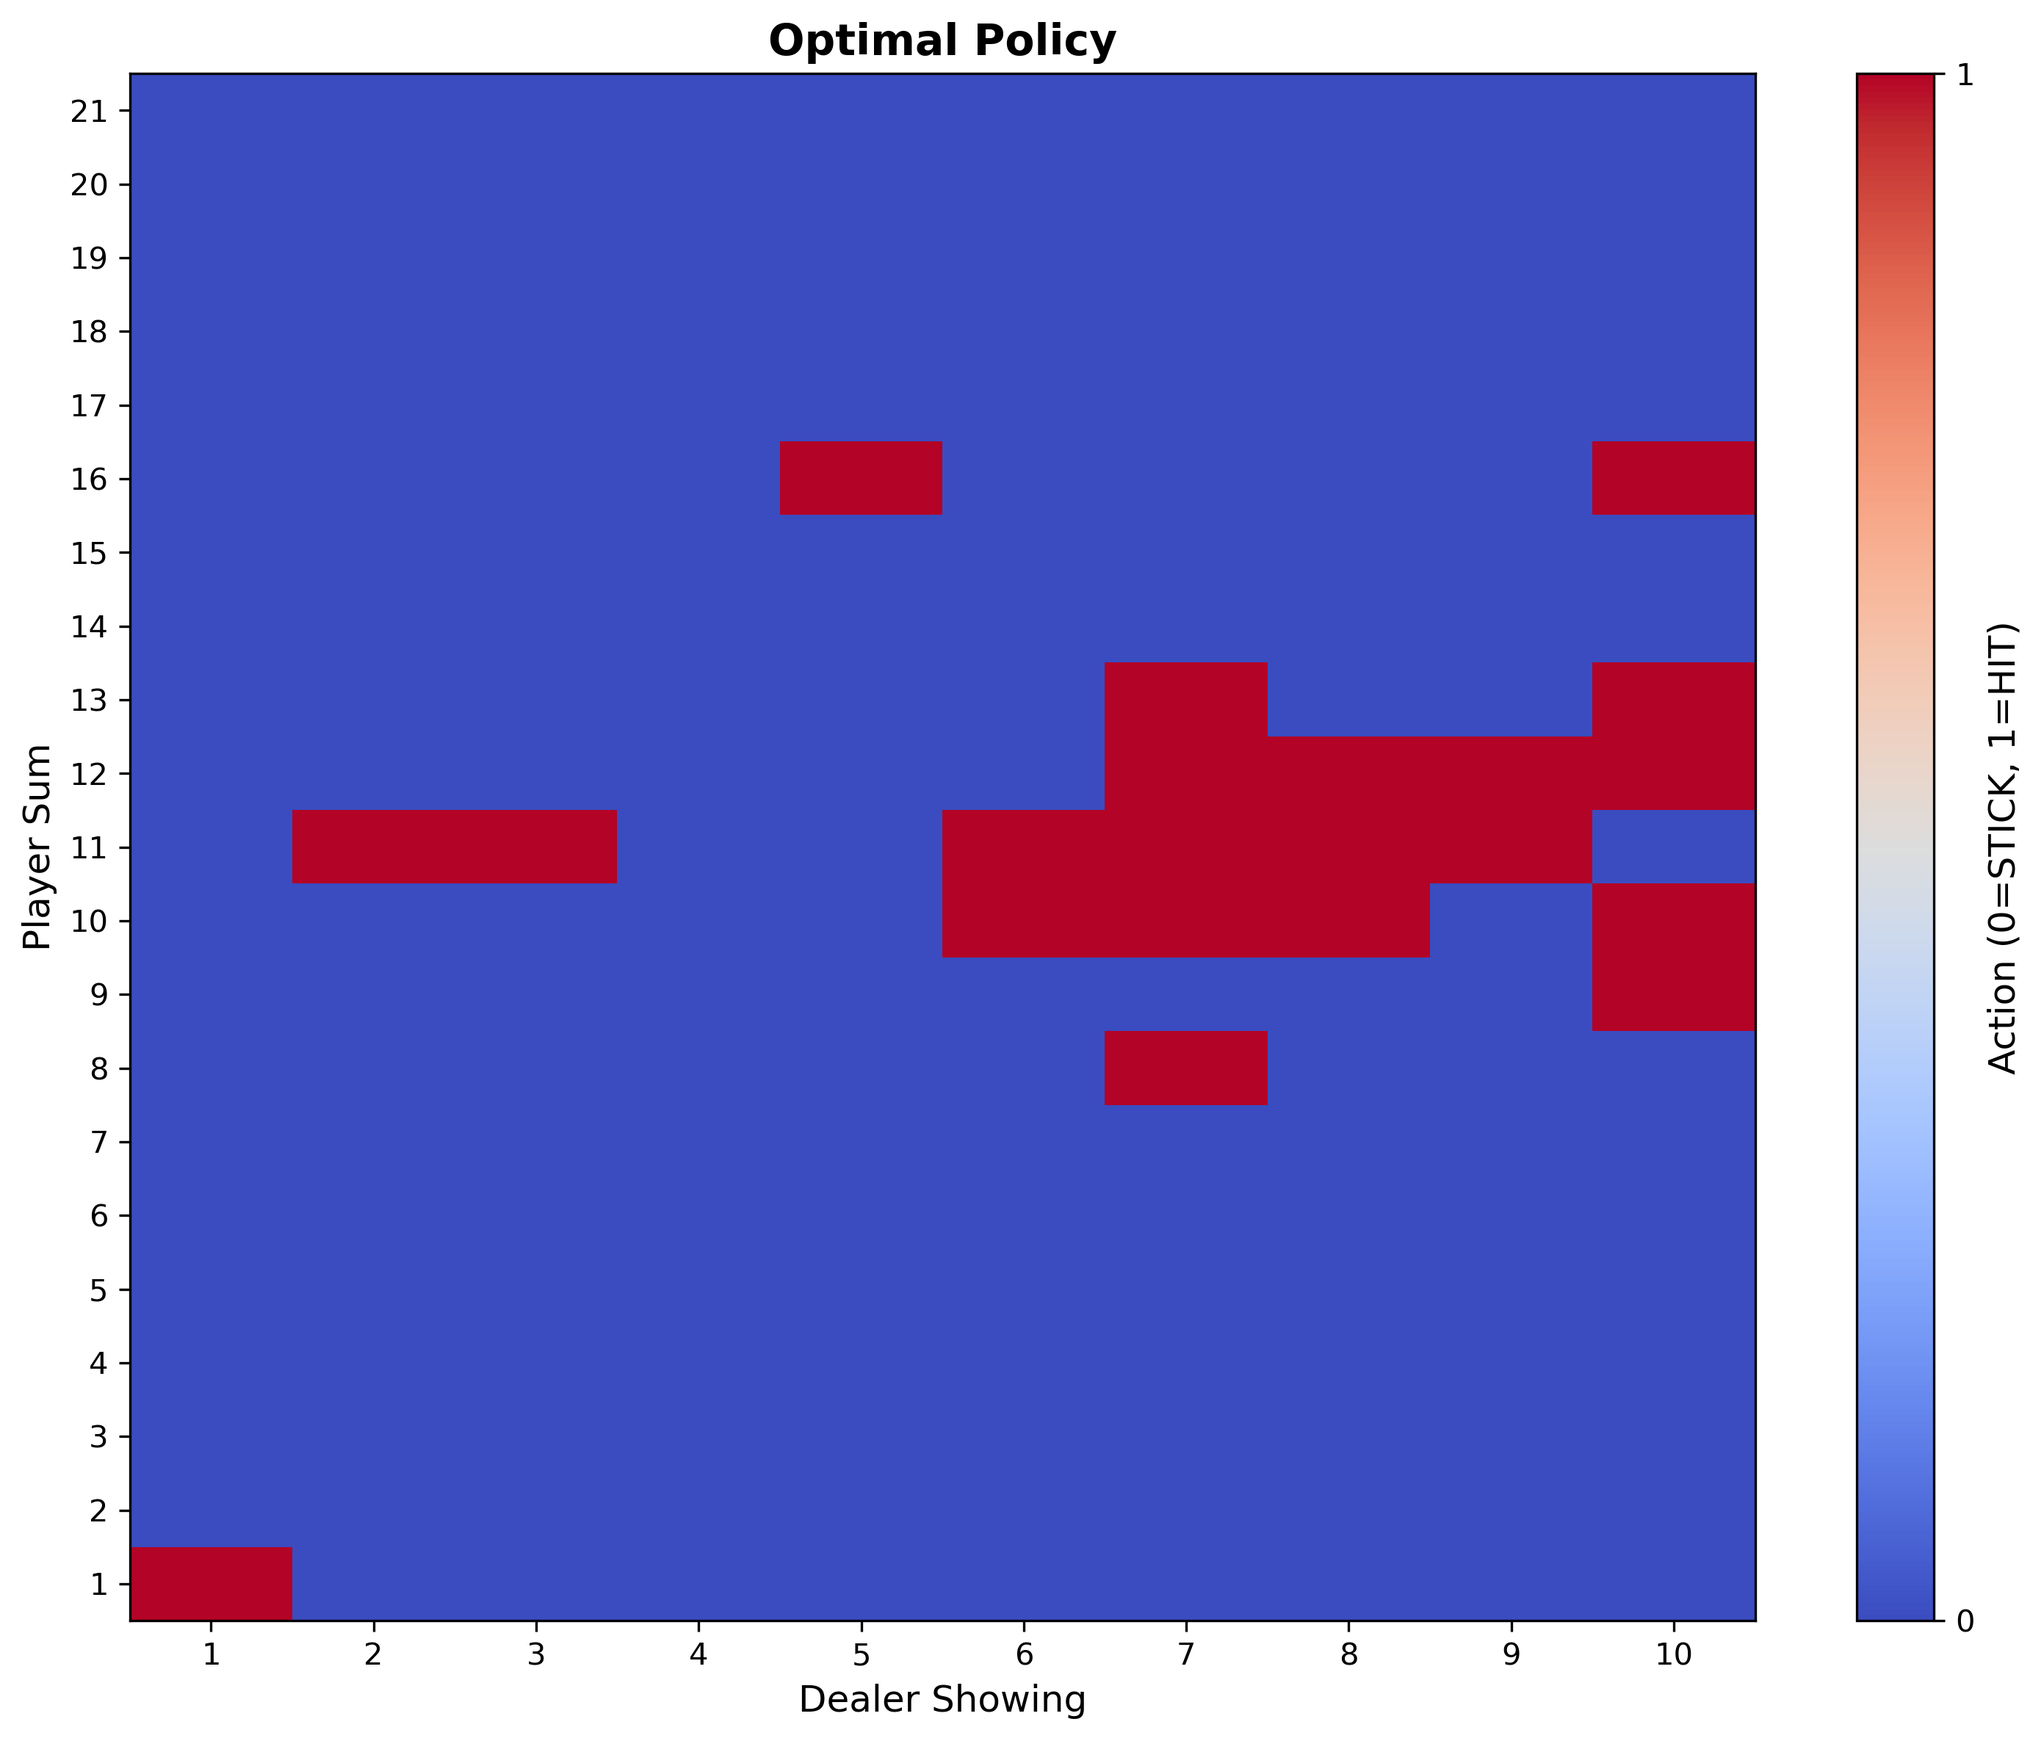
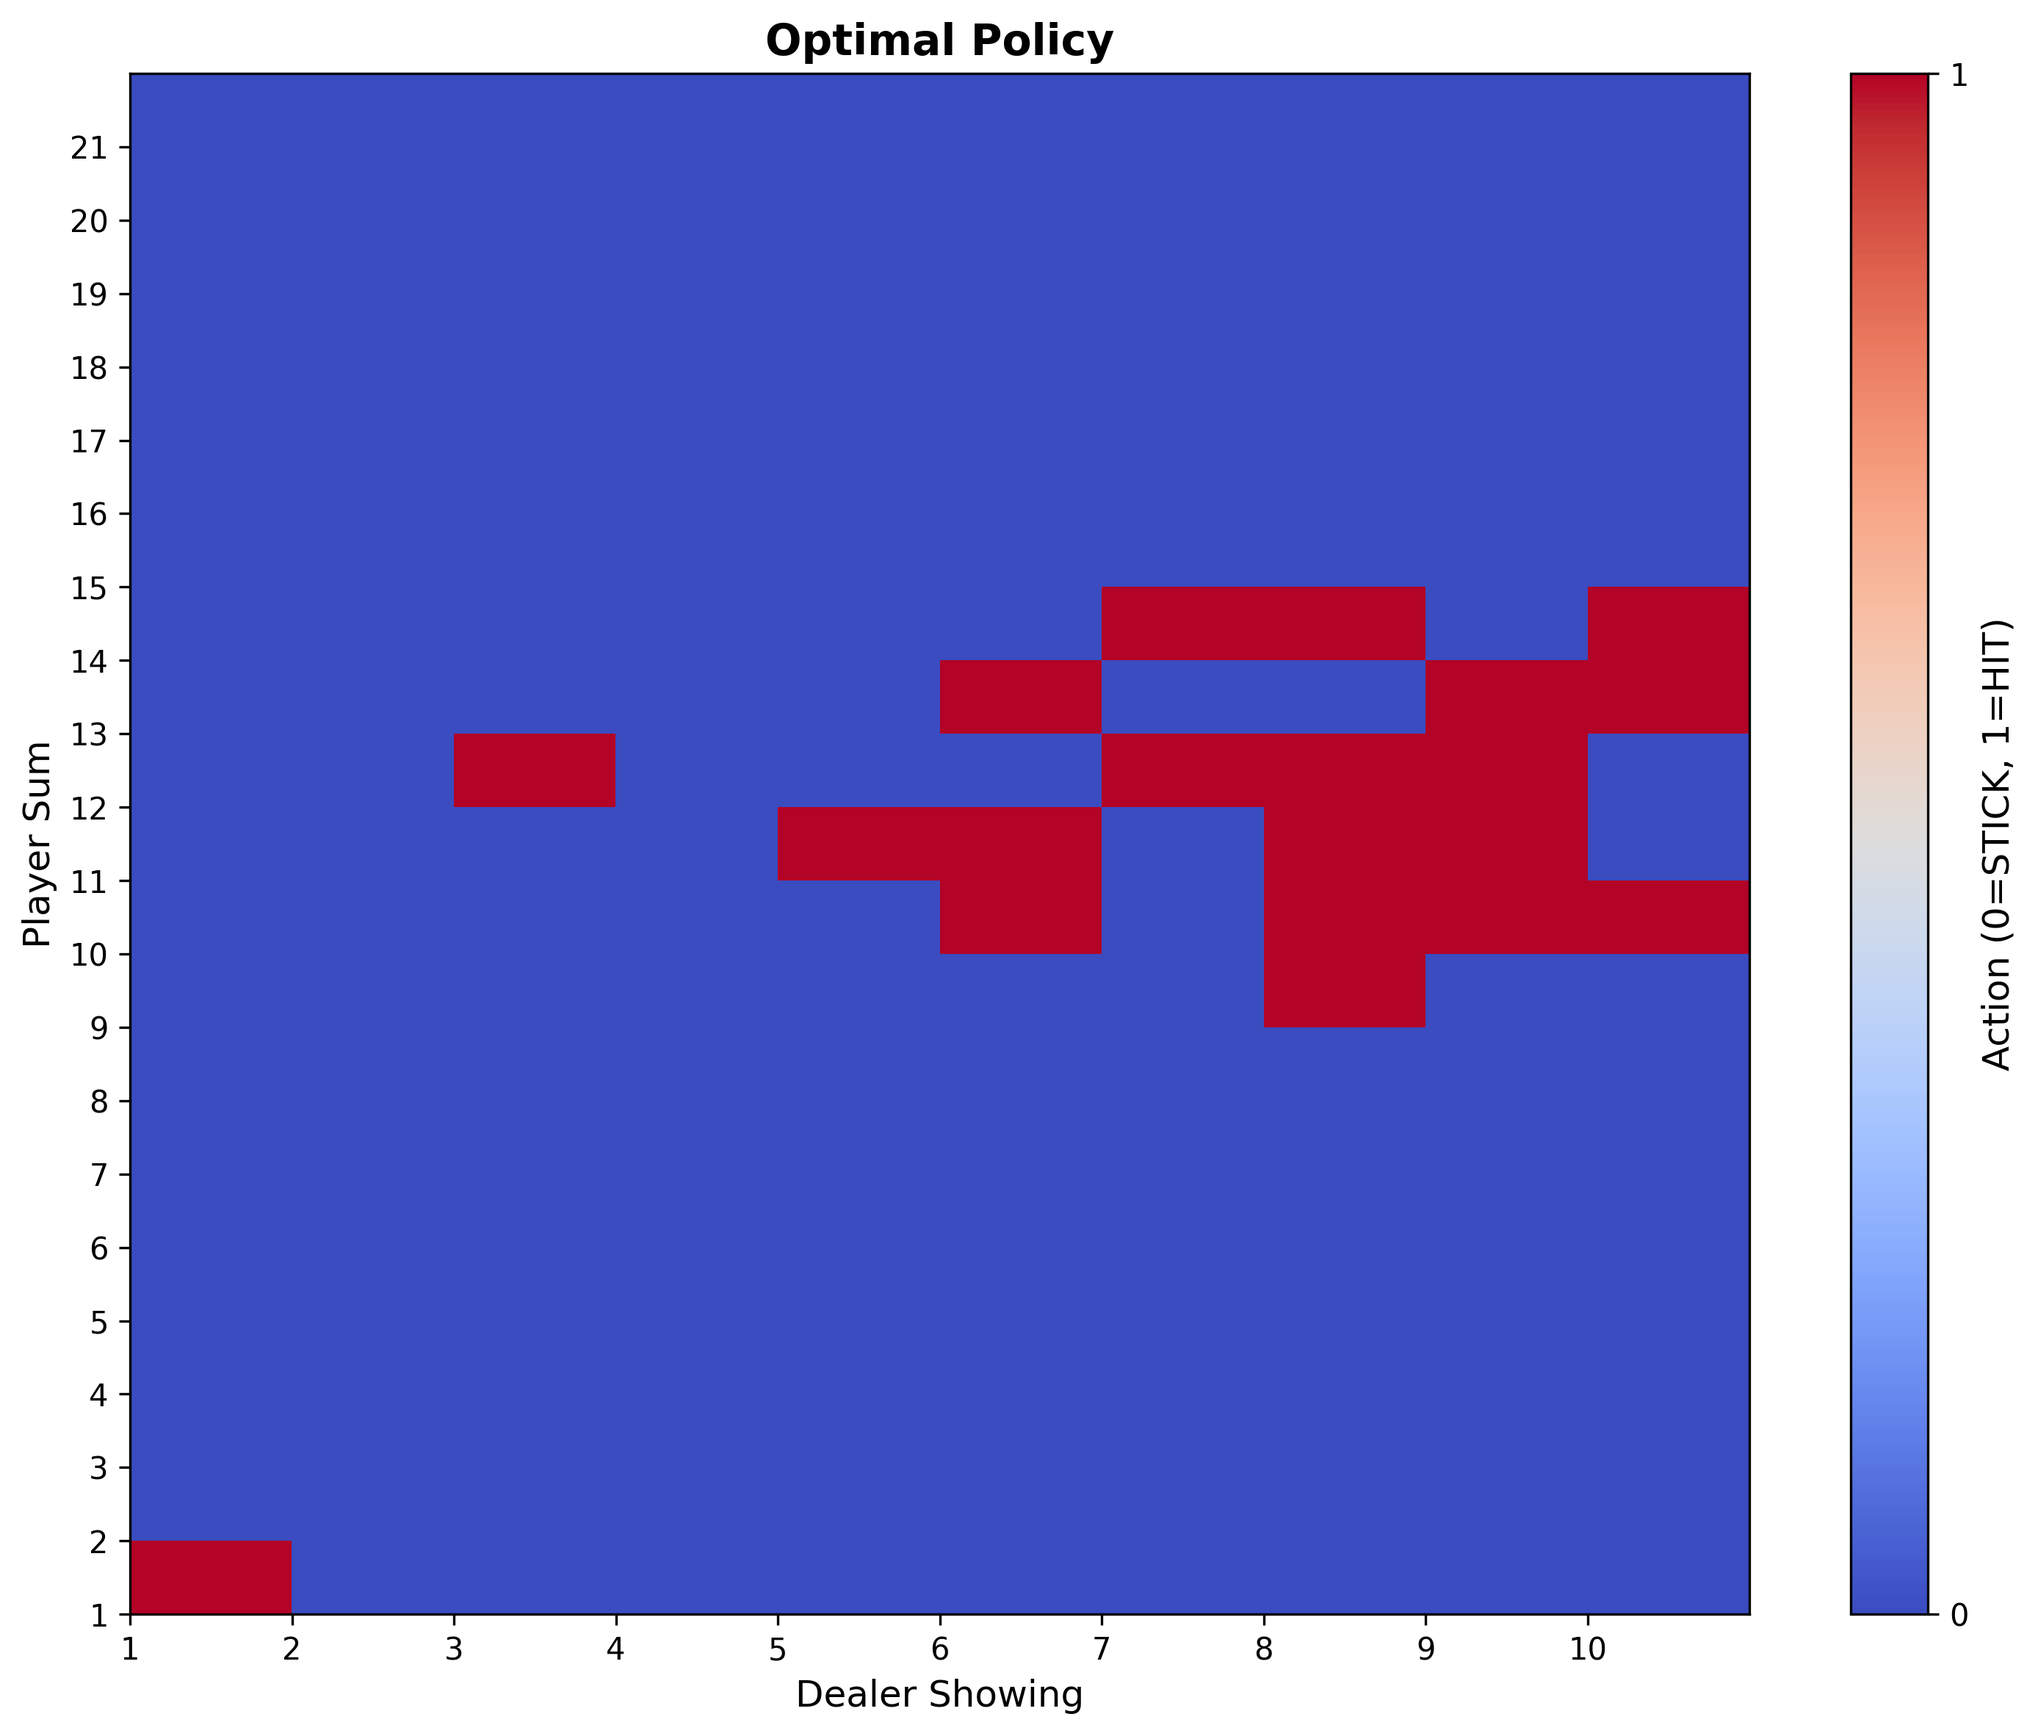
SARSA(lambda) implemented

diff --git a/model/question_3.py b/model/question_3.py
@@ -1,0 +1,190 @@
+"""
+Question 3: TD Learning in Easy21
+
+Implement Sarsa(λ) in Easy21. Run the algorithm with parameter values λ ∈ {0, 0.1, 0.2, ..., 1}.
+Stop each run after 1000 episodes and report the mean-squared error comparing with Q* from Monte Carlo.
+Plot the mean-squared error against λ.
+For λ = 0 and λ = 1 only, plot the learning curve of mean-squared error against episode number.
+"""
+
+import numpy as np
+import matplotlib.pyplot as plt
+import pickle
+
+from agent import Agent
+from easy21 import Easy21
+import _config
+
+
+def load_optimal_q_matrix(filepath: str = None):
+    """Load the optimal Q-matrix from Monte Carlo simulation."""
+    if filepath is None:
+        filepath = "q_matrix/monte_carlo_q_matrix.pkl"
+
+    try:
+        with open(filepath, 'rb') as f:
+            q_star = pickle.load(f)
+        print(f"Loaded optimal Q-matrix from {filepath}")
+        return q_star
+    except FileNotFoundError:
+        print(f"ERROR: Optimal Q-matrix not found at {filepath}")
+        print("Please run Monte Carlo simulation first to generate Q*.")
+        return None
+
+
+def calculate_mse(q_matrix, q_star):
+    """Calculate mean-squared error between estimated Q and optimal Q*."""
+    return np.mean((q_matrix - q_star) ** 2)
+
+
+def run_sarsa_lambda_episode(env, agent):
+    """Run a single episode with Sarsa(λ)."""
+    observation = env.reset()
+    agent.reset(observation)
+    terminated = False
+
+    while not terminated:
+        action = agent.select()
+        observation, terminated, reward = env.step(action)
+        agent.update(observation, int(action), float(reward), terminated)
+
+
+def run_sarsa_lambda_experiment(lambda_param, q_star, num_episodes=1000, track_learning_curve=False):
+    """Run Sarsa(λ) for a given lambda value."""
+    env = Easy21()
+    observation = env.reset()
+
+    agent = Agent(
+        observation=observation,
+        num_actions=2,
+        monte_carlo=False,
+        lambda_param=lambda_param
+    )
+    agent.train()
+
+    learning_curve = [] if track_learning_curve else None
+
+    for episode in range(num_episodes):
+        run_sarsa_lambda_episode(env, agent)
+
+        if track_learning_curve:
+            mse = calculate_mse(agent.q_matrix, q_star)
+            learning_curve.append(mse)
+
+    final_mse = calculate_mse(agent.q_matrix, q_star)
+    return final_mse, learning_curve
+
+
+def plot_mse_vs_lambda(lambda_values, mse_values, save_path=None):
+    """Plot mean-squared error against lambda."""
+    plt.figure(figsize=(10, 6))
+    plt.plot(lambda_values, mse_values, 'bo-', linewidth=2, markersize=8)
+    plt.xlabel('Lambda (λ)', fontsize=12)
+    plt.ylabel('Mean Squared Error', fontsize=12)
+    plt.title('MSE vs Lambda for Sarsa(λ)', fontsize=14)
+    plt.grid(True, alpha=0.3)
+    plt.tight_layout()
+
+    if save_path:
+        plt.savefig(save_path, dpi=300, bbox_inches='tight')
+        print(f"MSE vs Lambda plot saved to {save_path}")
+
+
+def plot_learning_curves(lambda_0_curve, lambda_1_curve, save_path=None):
+    """Plot learning curves for λ=0 and λ=1."""
+    plt.figure(figsize=(12, 6))
+    episodes = range(1, len(lambda_0_curve) + 1)
+
+    plt.plot(episodes, lambda_0_curve, 'b-', linewidth=1.5, label='λ = 0 (Sarsa)', alpha=0.8)
+    plt.plot(episodes, lambda_1_curve, 'r-', linewidth=1.5, label='λ = 1 (Monte Carlo)', alpha=0.8)
+
+    plt.xlabel('Episode Number', fontsize=12)
+    plt.ylabel('Mean Squared Error', fontsize=12)
+    plt.title('Learning Curves: MSE vs Episode Number', fontsize=14)
+    plt.legend(fontsize=11)
+    plt.grid(True, alpha=0.3)
+    plt.tight_layout()
+
+    if save_path:
+        plt.savefig(save_path, dpi=300, bbox_inches='tight')
+        print(f"Learning curves plot saved to {save_path}")
+
+
+def main():
+    print("="*60)
+    print("Question 3: TD Learning with Sarsa(λ)")
+    print("="*60)
+
+    # Load optimal Q-matrix from Monte Carlo
+    q_star = load_optimal_q_matrix()
+    if q_star is None:
+        return
+
+    # Lambda values to test
+    lambda_values = [i / 10.0 for i in range(11)]  # [0.0, 0.1, 0.2, ..., 1.0]
+    print(f"\nTesting lambda values: {lambda_values}")
+
+    # Store results
+    mse_values = []
+    lambda_0_curve = None
+    lambda_1_curve = None
+
+    # Run experiments for each lambda
+    print("\nRunning Sarsa(λ) experiments...")
+    for idx, lambda_param in enumerate(lambda_values):
+        print(f"[{idx+1}/{len(lambda_values)}] Testing λ = {lambda_param:.1f}...")
+        track_curve = (lambda_param == 0.0 or lambda_param == 1.0)
+
+        final_mse, learning_curve = run_sarsa_lambda_experiment(
+            lambda_param=lambda_param,
+            q_star=q_star,
+            num_episodes=1000,
+            track_learning_curve=track_curve
+        )
+
+        mse_values.append(final_mse)
+
+        if lambda_param == 0.0:
+            lambda_0_curve = learning_curve
+        elif lambda_param == 1.0:
+            lambda_1_curve = learning_curve
+
+        print(f"  λ = {lambda_param:.1f}: MSE = {final_mse:.6f}")
+
+    # Print results summary
+    print("\n" + "="*60)
+    print("Results Summary:")
+    print("="*60)
+    for lambda_param, mse in zip(lambda_values, mse_values):
+        print(f"  λ = {lambda_param:.1f}: MSE = {mse:.6f}")
+
+    best_idx = np.argmin(mse_values)
+    best_lambda = lambda_values[best_idx]
+    best_mse = mse_values[best_idx]
+    print(f"\n  Best λ = {best_lambda:.1f} with MSE = {best_mse:.6f}")
+    print("="*60)
+
+    # Generate plots
+    print("\nGenerating plots...")
+
+    plot_mse_vs_lambda(
+        lambda_values,
+        mse_values,
+        save_path="images/td_learning_mse_vs_lambda.png"
+    )
+
+    if lambda_0_curve and lambda_1_curve:
+        plot_learning_curves(
+            lambda_0_curve,
+            lambda_1_curve,
+            save_path="images/td_learning_curves.png"
+        )
+
+    print("\nAll plots generated successfully!")
+    print("="*60)
+
+    plt.show()
+
+
+if __name__ == "__main__":
+    main()

diff --git a/model/agent.py b/model/agent.py
@@ -13,7 +13,8 @@ class Agent:
             num_actions: int = _config.SCENARIO_ACTIONS_NUM,
             gamma: float = _config.GAMMA,
             N_0: float = _config.N_0,
-            monte_carlo: bool = _config.MONTE_CARLO
+            monte_carlo: bool = _config.MONTE_CARLO,
+            lambda_param: float = 0.0
         ):
 
         # Check types
@@ -40,6 +41,7 @@ class Agent:
         self.monte_carlo: bool    = monte_carlo
         self.gamma: float         = gamma
         self.N_0: float           = N_0
+        self.lambda_param: float  = lambda_param
 
         # Visit counters
         # N(s, a): count of times action a was selected from state s
@@ -51,6 +53,13 @@ class Agent:
         # Each episode stores: [(state, action, reward), ...]
         self.episode_trajectory: list[tuple[tuple[int], int, float]] = []
 
+        # Eligibility traces for Sarsa(λ)
+        # E(s, a): eligibility trace for state-action pair
+        self.eligibility_traces   = np.zeros((self.num_actions, *self.num_observations))
+
+        # Store previous action for Sarsa
+        self.prev_action: int = 0
+
     def reset(self, observation: tuple[int]):
         # Reset observations
         self.prev_observation = observation
@@ -58,6 +67,10 @@ class Agent:
         # Clear episode trajectory for Monte Carlo
         if self.monte_carlo:
             self.episode_trajectory = []
+
+        # Reset eligibility traces for Sarsa(λ)
+        if not self.monte_carlo and self.lambda_param > 0:
+            self.eligibility_traces = np.zeros((self.num_actions, *self.num_observations))
         
     def update(self, observation: tuple[int], action: int = 0, reward: float = 0.0, done: bool = False):
         # Check types
@@ -77,8 +90,11 @@ class Agent:
                 if done:
                     self._monte_carlo_update()
             else:
-                # TD Learning (Q-Learning): Update immediately
-                self._td_update(observation, action, reward, done)
+                # TD Learning: Use Sarsa(λ) if lambda > 0, otherwise Q-Learning
+                if self.lambda_param > 0:
+                    self._sarsa_lambda_update(observation, action, reward, done)
+                else:
+                    self._td_update(observation, action, reward, done)
 
         # Update observations
         self.prev_observation = observation
@@ -133,6 +149,53 @@ class Agent:
 
         # Q-learning update: Q(s, a) ← Q(s, a) + α[r + γ max Q(s', a') - Q(s, a)]
         self.q_matrix[(action, *self.prev_observation)] = current_q + alpha_t * (reward + self.gamma * next_max_q - current_q)
+
+    def _sarsa_lambda_update(self, observation: tuple[int], action: int, reward: float, done: bool):
+        """
+        Sarsa(λ) update with eligibility traces.
+        This implements the online version of Sarsa(λ) using backward-view eligibility traces.
+        """
+        # Get the next action using the same epsilon-greedy policy
+        if done:
+            next_action = 0  # Arbitrary, won't be used
+        else:
+            # Select next action using epsilon-greedy policy
+            self.state_count[observation] += 1
+            epsilon_t = self.N_0 / (self.N_0 + self.state_count[observation])
+            if random.random() > epsilon_t:
+                q_values = self.q_matrix[(slice(None), *observation)]
+                next_action = np.argmax(q_values)
+            else:
+                next_action = random.randint(self.actions[0], self.actions[-1])
+
+        # Increment visit counter for current state-action pair
+        self.state_action_count[(action, *self.prev_observation)] += 1
+
+        # Calculate learning rate: α_t = 1/N(s_t, a_t)
+        alpha_t = 1.0 / self.state_action_count[(action, *self.prev_observation)]
+
+        # Get current Q-value
+        current_q = self.q_matrix[(action, *self.prev_observation)]
+
+        # Calculate TD error
+        if done:
+            next_q = 0
+        else:
+            next_q = self.q_matrix[(next_action, *observation)]
+
+        td_error = reward + self.gamma * next_q - current_q
+
+        # Update eligibility trace for current state-action pair
+        self.eligibility_traces[(action, *self.prev_observation)] += 1
+
+        # Update all Q-values and eligibility traces
+        self.q_matrix += alpha_t * td_error * self.eligibility_traces
+
+        # Decay eligibility traces
+        self.eligibility_traces *= self.gamma * self.lambda_param
+
+        # Store next action for next iteration
+        self.prev_action = next_action if not done else 0
 
     def select(self, greedy: bool = False):
         # Increment state visit counter

diff --git a/model/visualize.py b/model/visualize.py
@@ -17,7 +17,8 @@ def plot_policy_heatmap(q_matrix: np.ndarray, save_path: str = None):
     # argmax over action dimension (axis=0)
     policy = np.argmax(q_matrix, axis=0)
 
-    # Skip index 0 (unused) and use indices 1 onwards
+    # Skip index 0 (unused) for both dealer and player
+    # Dealer cards: 1-10, Player sums: 1-21
     policy_trimmed = policy[1:, 1:]
 
     # Create figure
@@ -30,7 +31,7 @@ def plot_policy_heatmap(q_matrix: np.ndarray, save_path: str = None):
         cmap='coolwarm',
         aspect='auto',
         origin='lower',  # Start from bottom left
-        extent=[0.5, policy_trimmed.shape[0] + 0.5, 0.5, policy_trimmed.shape[1] + 0.5],
+        extent=[1, policy_trimmed.shape[0] + 1, 1, policy_trimmed.shape[1] + 1],
         vmin=0,
         vmax=1
     )
@@ -39,7 +40,7 @@ def plot_policy_heatmap(q_matrix: np.ndarray, save_path: str = None):
     cbar = plt.colorbar(im, ax=ax, ticks=[0, 1])
     cbar.set_label('Action (0=STICK, 1=HIT)', fontsize=12)
 
-    # Set tick positions to show actual values (1-10 for dealer, 1-10 for player)
+    # Set tick positions to show actual values (1-10 for dealer, 1-21 for player)
     ax.set_xticks(range(1, policy_trimmed.shape[0] + 1))
     ax.set_yticks(range(1, policy_trimmed.shape[1] + 1))
 
@@ -111,6 +112,14 @@ def plot_value_function_3d(q_matrix: np.ndarray, save_path: str = None, mask_unv
     if mask_unvisited:
         title += ' (unvisited states masked)'
     ax.set_title(title, fontsize=14, fontweight='bold', pad=20)
+
+    # Set axis limits to start exactly at 1 (never show 0)
+    ax.set_xlim(1, player_range[-1])
+    ax.set_ylim(1, dealer_range[-1])
+
+    # Set tick marks to show only valid values (1-10 for dealer, 1-21 for player)
+    ax.set_yticks(dealer_range)
+    ax.set_xticks(player_range[::2])  # Show every other player sum for clarity
 
     # Invert Y-axis so Dealer Showing goes from 10 to 1 (left to right)
     ax.invert_yaxis()

diff --git a/report/results.tex b/report/results.tex
@@ -1,6 +1,16 @@
 % Monte Carlo
 \subsection{Monte Carlo}
 
+Metrics:
+
+========================================
+Summary after 1000000 episodes using Monte Carlo Simulation:
+Total rewards: 141417.0
+Average reward: 0.14
+Wins (%): 56.66%
+Q-Matrix: 1.0
+========================================
+
 Heat Map and 3D Map of the Value Function:
 
 \begin{figure}[h!]
